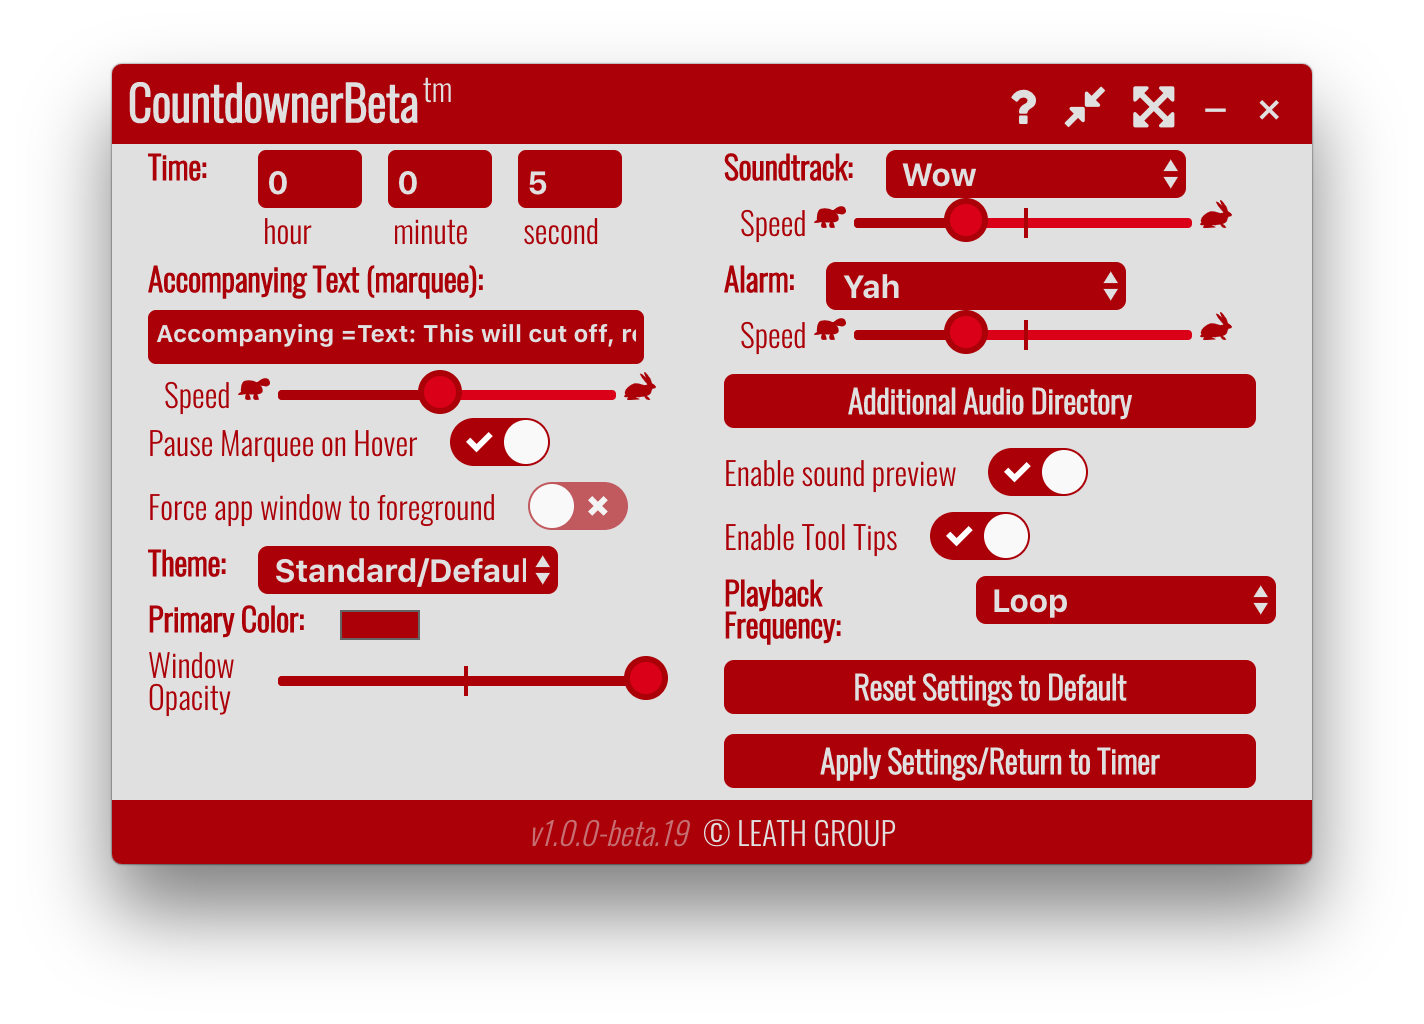
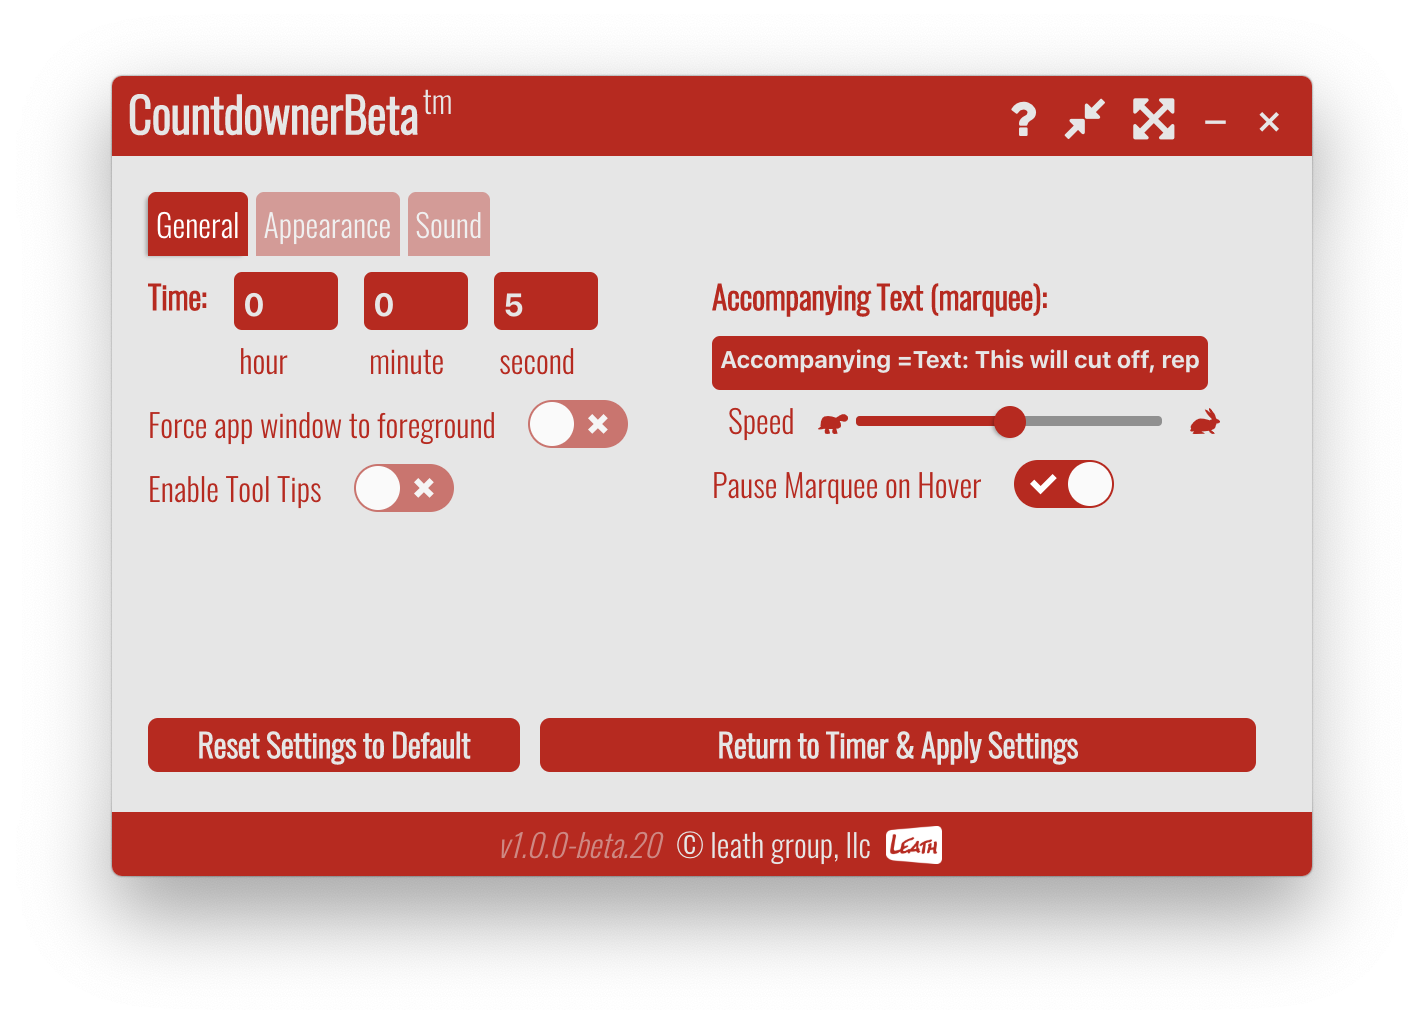
Updates for version 20 with a warning for known issues

diff --git a/src/App.js b/src/App.js
@@ -91,6 +91,30 @@ function Screenshots() {
           <figure>
             <img
               alt="countdowner preview"
+              src="/images/countdowner-preview-setting-4.png"
+            />
+          </figure>
+        </div>
+        <div>
+          <figure>
+            <img
+              alt="countdowner preview"
+              src="/images/countdowner-preview-6.png"
+            />
+          </figure>
+        </div>
+        <div>
+          <figure>
+            <img
+              alt="countdowner preview"
+              src="/images/countdowner-preview-7.png"
+            />
+          </figure>
+        </div>
+        <div>
+          <figure>
+            <img
+              alt="countdowner preview"
               src="/images/countdowner-preview-setting-3.png"
             />
           </figure>
@@ -113,31 +137,27 @@ function App() {
       <main>
         <aside>
           <h2>Features Added to Beta (this version)</h2>
-          <p>• New Army and Navy themes</p>
-          <p>• A email subscription button for app updates and news</p>
-          <p>• Blinking timer as the countdown nears the end</p>
-          <p>• Several new soundtracks and alarms</p>
-          <p>• New dark mode with a custom accent color</p>
           <p>
-            • Soundtrack interval setting: to start the track every minute as a
-            signal to the audience of how quickly the time is passing.
+            <strong>
+              <em>
+                We are currently experiencing issues with futuristic styles - if
+                you have problems press command (or control for mac) + "R" to
+                refresh the application. Also, for accompanying text, please
+                paster your text in for now as we sort these issues.
+              </em>
+            </strong>
           </p>
-          <p>• Improved legibility in the futuristic theme</p>
+          <p>• Seperated settings page into tabs for easier navigation.</p>
           <p>
-            • Many sounds are now marked CC - indecating that they are sourced
-            from the creative commons
+            • Added alarm and soundtrack volumes for a better experience during
+            video conferencing.
           </p>
-          <p>• New custom fonts for many of our themes</p>
-          <p>• Fixed several known and reported bugs</p>
-          <p>
-            • New playback frequency setting - controls how often a audio clip
-            is repeated{' '}
-          </p>
-          <p>• Added our first textured custom background to the car theme</p>
-
+          <p>• Updated sliders in setting for easier use.</p>
+          <p>• Added a issue support questionaire to the help/info menu.</p>
+          <p>• Fixed some more known bugs.</p>
           <h4>
             Current Beta Version | {downloads ? downloads.version : '...'} |
-            Last updated: Oct 23, 2019
+            Last updated: May 8, 2020
           </h4>
         </aside>
         <div className="right-side">
@@ -157,7 +177,7 @@ function App() {
               </a>
               <p>
                 Since the application is still under development, it will show a
-                warning for Mac users. Please{' '}
+                warning for Mac users. Please shift-click or{' '}
                 <strong>Control-click the app icon</strong>, then choose Open
                 from the shortcut menu.
               </p>
@@ -193,56 +213,70 @@ function App() {
             window is large.
           </p>
           {/*• Add custom fonts font and overall size in car and US navy themes*/}
-          {/* Contimue moving sounds to creative commons */}
-          <p>
-            • Settings Menu: Add a quick start option, or allow for a shallow
-            and in-depth view of the many setting options.
-            {/* Re-layout/Simplify settings view */}
-            {/* Make the start button easier to find in the settings */}
-          </p>
           <p>
             • In-depth legibility testing on themes for both laptop and
             projection
           </p>
-          {/*clay requested we default off on the tooltips - but I think during beta that's not a great idea*/}
+          {/*clay requested we default off on the tooltips*/}
           <p>• Add a khaki theme with a customizable primary color</p>
           <p>• Add seasonal and holiday themes</p>
           <p>• Move all available sounds to Creative commons</p>
-
+          {/* Contimue moving sounds to creative commons */}
           {/* check tooltips */}
         </div>
         <div>
           <h2>Full Features List</h2>
-          <p>• A blank soundtrack/alarm option</p>
           <p>
-            • Tool tips on settings and a way to disable them when you get to
-            know your way around the app
-          </p>
-          <p>• Updated setting verbiage for ease of use and understanding</p>
-          <p>• Added 5 new sound bites</p>
-          <p>
-            • Redesigned the speed sliders to show slow, normal, and fast speeds
+            • Provide a list of preloaded soundtrack/alarm options plus a blank
+            option
           </p>
           <p>
-            • Added a setting to force and disable the window being brought to
-            the front of all other windows
+            • Tool tips to show you around the app, and the ability to disaible
+            them
           </p>
-          <p>• Settings persist when closing and reopening app</p>
+          <p>• Variable speed slider for slowing and speeding up soundtracks</p>
+          <p>
+            • Ability to force or disable the application window being brought
+            to the front of all other windows
+          </p>
+          <p>• Custom settings persist when closing and reopening app</p>
           <p>• Dynamic Sizing from the Corner</p>
           <p>
-            • A Color Slider in Settings For the main Color of Default Theme
+            • A color picker in settings for the main color of default and dark
+            theme
           </p>
           <p>
-            • A New Monochromatic and Car Dashboard Theme (we are working on a
-            color picker for the car as well)
+            • Monochromatic, Car Dashboard Theme, Dark mode, Futuristic, US Navy
+            and US Army themes
           </p>
+          <p>• A email subscription button for app updates and news</p>
+          <p>• Blinking timer as the countdown nears the end</p>
+          <p>
+            • Soundtrack interval setting: to start the track every minute as a
+            signal to the audience of how quickly the time is passing.
+          </p>
+          <p>
+            • Many sounds are now marked CC - indecating that they are sourced
+            from the creative commons
+          </p>
+          <p>• New custom fonts for many of our themes</p>
+          <p>
+            • New playback frequency setting: controls how often a audio clip is
+            repeated
+          </p>
+          <p>• Added our first textured custom background to the car theme</p>
         </div>
       </div>
 
       <footer>
         <img alt="leath logo" src="/images/LeathRedSmall.png" />
         If you are interested in helping with our beta test by providing
-        feedback on this app, please email team@vanderdys.design
+        feedback on this app, please email
+        <a href="mailto:team@vanderdys.design">team@vanderdys.design</a> or
+        fillout this{' '}
+        <a href="https://team846642.typeform.com/to/l1SDaB">
+          online feedback form.
+        </a>
       </footer>
     </div>
   );

diff --git a/src/main.scss b/src/main.scss
@@ -69,7 +69,16 @@ button {
   font-weight: bold;
   margin-top: 16px;
 }
-
+a {
+  margin: 0 8px;
+  color: #c51010;
+  text-decoration: none;
+  font-weight: bold;
+}
+a:hover {
+  font-style: italic;
+  margin: 0 7.5px;
+}
 header {
   display: flex;
   flex-direction: row;
